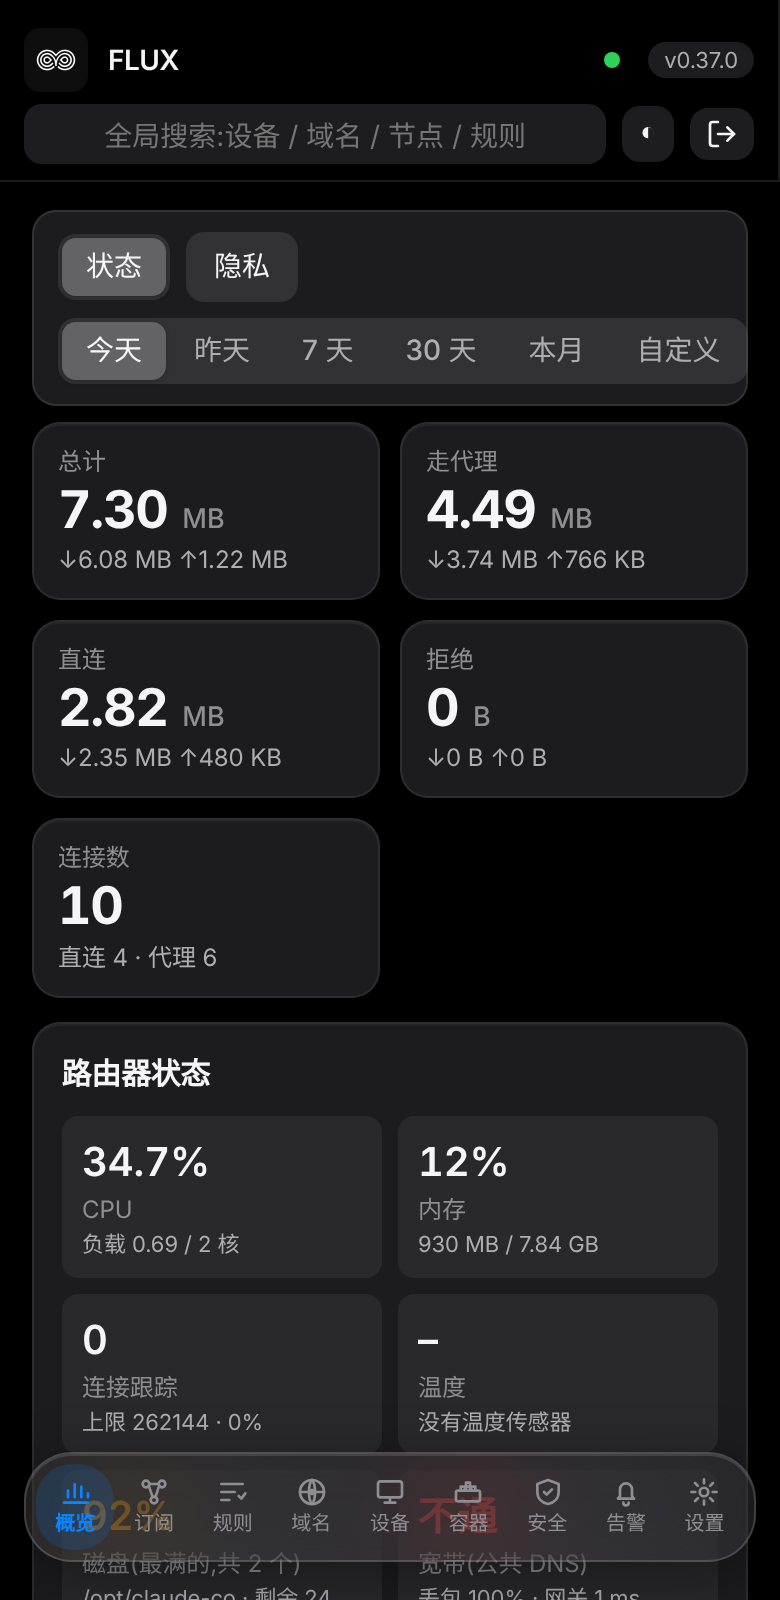
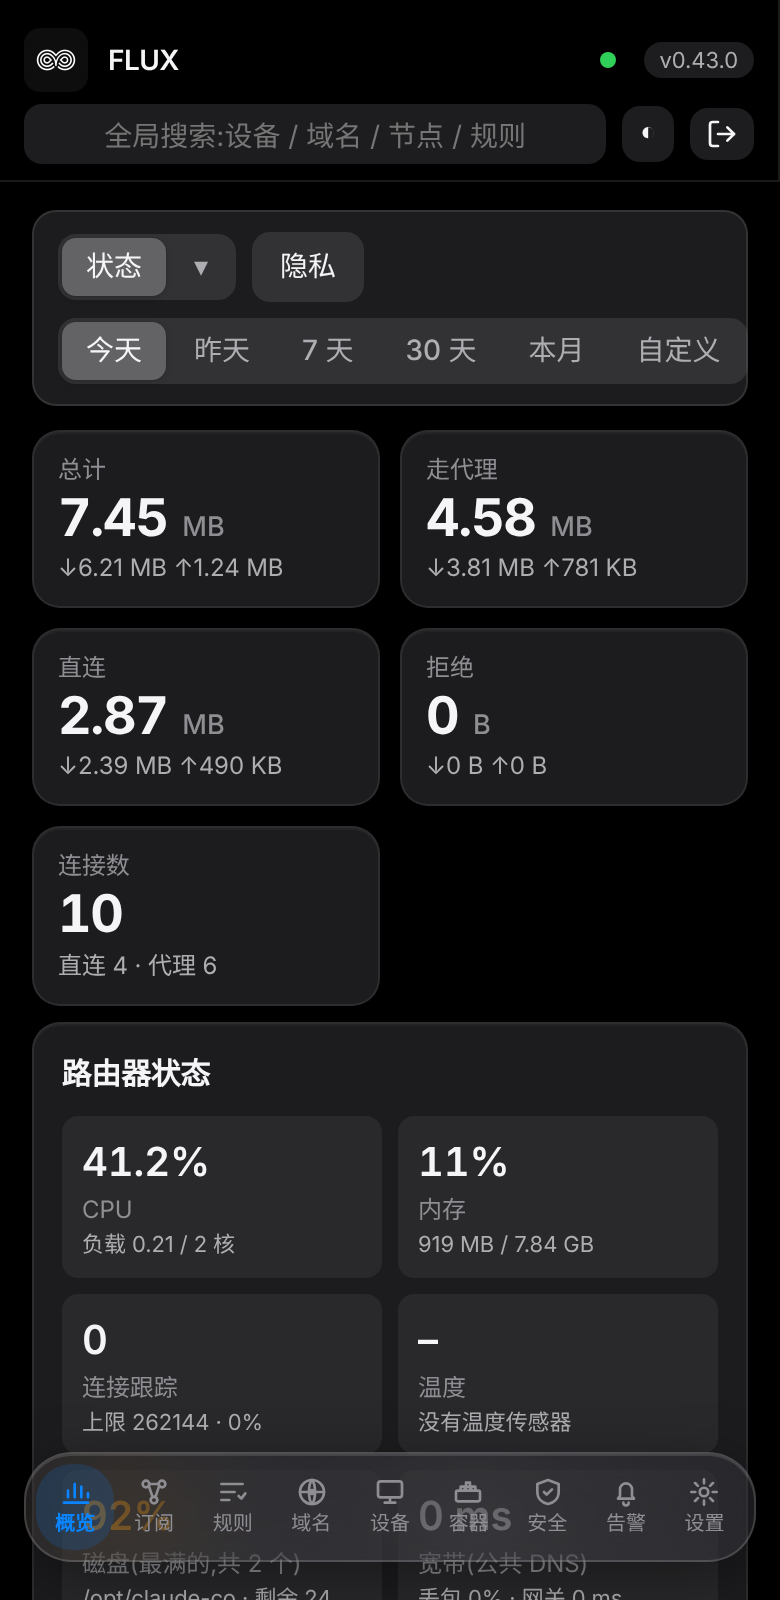
docs: update feature docs and screenshots (new-device card, heatmap, status popover, SD-card tips)
Claude-Session: https://claude.ai/code/session_01GtGpDSTma1sKiSfQkHSTpF

diff --git a/tests/docshots.py b/tests/docshots.py
@@ -1,5 +1,5 @@
 """生成 README 用的演示截图(模拟的 nikki / AdGuard / Docker,不含任何真实数据):python3 tests/docshots.py"""
-import json, os, subprocess, sys, tempfile, time, urllib.request
+import json, math, os, random, sqlite3, subprocess, sys, tempfile, time, urllib.request
 HERE = os.path.dirname(os.path.abspath(__file__)); ROOT = os.path.dirname(HERE)
 sys.path.insert(0, HERE)
 import mock_mihomo, mock_docker
@@ -9,7 +9,9 @@ data = tempfile.mkdtemp(); neigh = data + "/n"
 open(neigh, "w").write("192.168.1.10 dev br lladdr aa:bb:cc:dd:ee:01 REACHABLE\nfd00::10 dev br lladdr aa:bb:cc:dd:ee:01 STALE\n192.168.1.20 dev br lladdr aa:bb:cc:dd:ee:02 REACHABLE\n")
 env = dict(os.environ, DATA_DIR=data, NIKKI_API="http://127.0.0.1:19297", NIKKI_SECRET="s3cret", INTERVAL_SEC="2", FLUSH_SEC="2",
            LISTEN_HOST="127.0.0.1", LISTEN_PORT="18222", NEIGH_FILE=neigh, APP_VERSION=open(os.path.join(ROOT, "VERSION")).read().strip())
-p = subprocess.Popen([sys.executable, "-m", "app"], cwd=ROOT, env=env, stdout=subprocess.DEVNULL, stderr=subprocess.STDOUT)
+# 演示里宽带探测改用本机回环,避免沙箱出不去公网时概览出现红色「不通」(只影响截图,不改程序默认)
+BOOT = "import runpy, app.wan as w; w.DEFAULT_TARGETS = ['127.0.0.1']; runpy.run_module('app', run_name='__main__')"
+p = subprocess.Popen([sys.executable, "-c", BOOT], cwd=ROOT, env=env, stdout=subprocess.DEVNULL, stderr=subprocess.STDOUT)
 B = "http://127.0.0.1:18222"
 OUT = os.path.join(ROOT, "docs", "img"); os.makedirs(OUT, exist_ok=True)
 
@@ -18,10 +20,42 @@ def post(path, body):
     urllib.request.urlopen(urllib.request.Request(B + path, json.dumps(body).encode(), {"Content-Type": "application/json"}))
 
 
+
+def seed_demo():
+    """预填演示用的历史数据:两周的小时流量(让热力图有规律可看)和几台"新设备"。全是编造的。"""
+    con = sqlite3.connect(os.path.join(data, "traffic.db"), timeout=30)
+    rnd = random.Random(7)
+    now = time.time()
+    macs = {"aa:bb:cc:dd:ee:01": 1.0, "aa:bb:cc:dd:ee:02": 2.2}
+    for d in range(14, -1, -1):
+        for h in range(24):
+            t = now - d * 86400
+            lt = time.localtime(t)
+            hour = time.strftime("%Y-%m-%d ", lt) + "%02d" % h
+            wk = lt.tm_wday >= 5
+            # 晚上 19-23 点最忙;周末白天也有流量;凌晨几乎没有
+            base = 0.04 + 0.9 * math.exp(-((h - 21) ** 2) / 8) + (0.45 * math.exp(-((h - 14) ** 2) / 18) if wk else 0.22 * math.exp(-((h - 9) ** 2) / 6))
+            for m, k in macs.items():
+                v = base * k * rnd.uniform(0.6, 1.4) * 6e7
+                if d == 5 and h == 22 and m.endswith("02"):
+                    v *= 14            # 一次大下载,用来演示「中位数」不被带偏
+                con.execute("INSERT OR REPLACE INTO hourly(hour,client,node,up,down) VALUES(?,?,?,?,?)", (hour, m, "香港 01", int(v * .12), int(v)))
+    # known_dev:一条很早的记录当"首次启动时已有的设备",之后才出现的才算新设备
+    con.execute("INSERT OR REPLACE INTO known_dev(client,first) VALUES(?,?)", ("aa:bb:cc:dd:ee:01", int(now - 40 * 86400)))
+    con.execute("INSERT OR REPLACE INTO known_dev(client,first) VALUES(?,?)", ("aa:bb:cc:dd:ee:02", int(now - 40 * 86400)))
+    for i, (mac, ip, ago) in enumerate([("aa:bb:cc:dd:ee:11", "192.168.1.31", 2 * 3600), ("aa:bb:cc:dd:ee:12", "192.168.1.32", 7 * 3600),
+                                        ("aa:bb:cc:dd:ee:13", "192.168.1.33", 30 * 3600), ("aa:bb:cc:dd:ee:14", "192.168.1.34", 5 * 86400)]):
+        con.execute("INSERT OR REPLACE INTO known_dev(client,first) VALUES(?,?)", (mac, int(now - ago)))
+        con.execute("INSERT OR REPLACE INTO ipmap(ip,mac,seen) VALUES(?,?,?)", (ip, mac, int(now)))
+    con.commit(); con.close()
+
+
 try:
     time.sleep(20)
+    seed_demo()
     post("/api/device", {"dev": "aa:bb:cc:dd:ee:01", "name": "小林的手机"})
     post("/api/device", {"dev": "aa:bb:cc:dd:ee:02", "name": "客厅电视"})
+    post("/api/device", {"dev": "aa:bb:cc:dd:ee:13", "name": "书房平板"})
     post("/api/agh/config", {"url": "127.0.0.1:19444", "user": "admin", "pass": "pw123"})
     post("/api/docker/cfg", {"on": True, "url": "http://127.0.0.1:19331"})
     post("/api/auth/set", {"new": "demo-pass-123"})
@@ -39,15 +73,24 @@ try:
             pg.evaluate("TH.viz.style='wave';TH.trend.style='smooth';themeChanged(true)"); pg.wait_for_timeout(2500)
             go = lambda t: (pg.evaluate(f"S.tab='{t}';showTab();refresh()"), pg.wait_for_timeout(3500))
             go("overview"); pg.screenshot(path=f"{OUT}/overview{'-dark' if scheme == 'dark' else ''}.png")
+            if scheme == "light":
+                pg.click("#glCfg"); pg.wait_for_timeout(600); pg.screenshot(path=f"{OUT}/status-popover.png", clip={"x": 0, "y": 0, "width": 1280, "height": 520})
+                pg.keyboard.press("Escape"); pg.evaluate("document.getElementById('glPop')&&document.getElementById('glPop').remove()")
             if scheme == "dark":
                 continue
             go("nodes"); pg.screenshot(path=f"{OUT}/nodes.png")
-            go("devices"); pg.screenshot(path=f"{OUT}/devices.png")
+            go("devices"); pg.wait_for_timeout(1500); pg.screenshot(path=f"{OUT}/devices.png")
+            nd = pg.query_selector("#newDevCard")
+            if nd and nd.is_visible():
+                nd.screenshot(path=f"{OUT}/devices-new.png")
+            else:
+                print("警告:新设备卡没有出现")
             go("rules"); pg.fill("#rtIn", "www.baidu.com"); pg.click("#rtGo"); pg.wait_for_timeout(3500); pg.screenshot(path=f"{OUT}/rules.png")
             go("domains"); pg.fill("#lkpIn", "www.bilibili.com"); pg.click("#lkpGo"); pg.wait_for_timeout(3500); pg.screenshot(path=f"{OUT}/lookup.png")
             go("security"); pg.wait_for_timeout(2500); pg.evaluate("secTab('ov',true)"); pg.wait_for_timeout(500); pg.screenshot(path=f"{OUT}/security.png")
             pg.evaluate("secTab('dns',true)"); pg.wait_for_timeout(800); pg.screenshot(path=f"{OUT}/security-dns.png")
             pg.evaluate("secTab('diag',true)"); pg.wait_for_timeout(800); pg.screenshot(path=f"{OUT}/analysis.png")
+            pg.evaluate("secTab('rv',true)"); pg.wait_for_timeout(2500); pg.screenshot(path=f"{OUT}/heatmap.png")
             pg.evaluate("secTab('ov',true)")
             go("alerts"); pg.screenshot(path=f"{OUT}/alerts.png")
             go("docker"); pg.screenshot(path=f"{OUT}/docker.png")

diff --git a/README.md b/README.md
@@ -7,6 +7,7 @@
 - 按 **设备 / 机场 / 节点 / 策略组 / 规则 / 访问目标** 统计流量,看实时速度和小时 / 天趋势
 - 查某个域名走哪条规则、哪个节点,还能**实时测试**(不只看历史)
 - 路由器状态、宽带质量、DNS 拦截(AdGuard Home)、告警与推送、UPS、Docker 容器、周对比 / 故障时间线 / Wi-Fi 事件
+- **新设备一眼找到**(设备页「新设备」卡片)、**活跃时段热力图**(周内 / 工作日 vs 周末 / 某一天)
 - 数据只存在你自己的路由器上(SQLite),不联网上报。面板对路由器和 nikki **只读**,只给建议,不替你改配置
 
 > 截图用的是演示数据(模拟的 nikki / AdGuard / Docker),不是真实流量。外观默认是 Apple 风格,支持浅色 / 深色 / 随系统。
@@ -37,6 +38,14 @@
 |---|---|
 | ![告警](docs/img/alerts.png) | ![容器](docs/img/docker.png) |
 
+| 设备 · 新设备卡片(首次出现时间,直接命名 / 查看) | 安全 · 回看(活跃时段热力图) |
+|---|---|
+| ![新设备](docs/img/devices-new.png) | ![热力图](docs/img/heatmap.png) |
+
+| 概览 · 「状态 ▾」选择要隐藏的卡片 | |
+|---|---|
+| ![状态弹层](docs/img/status-popover.png) | |
+
 | 设置 | 登录页 |
 |---|---|
 | ![设置](docs/img/settings.png) | ![登录](docs/img/login.png) |
@@ -49,15 +58,15 @@
 
 | 模块 | 内容 |
 |---|---|
-| 概览 | 总流量、走代理 / 直连占比、实时速度、路由器状态(CPU / 内存 / 磁盘 / 宽带质量)、趋势图(柱 / 线 / 面积 / 平滑曲线)、设备与应用 Top、网络质量;卡片可拖动排序 |
+| 概览 | 总流量、走代理 / 直连占比、实时速度、路由器状态(CPU / 内存 / 磁盘 / 宽带质量)、趋势图(柱 / 线 / 面积 / 平滑曲线)、设备与应用 Top(应用分布可翻页看全部)、网络质量;卡片可拖动排序,「状态 ▾」可选哪些卡片被一键隐藏;网卡速度可折叠 |
 | 订阅 | 机场套餐用量与到期、节点评分(延迟 / 超时 / 波动)、各机场 / 节点流量;订阅长时间没更新会告警并给出 nikki 里的失败原因 |
 | 规则 | 规则命中统计、从未命中的规则、兜底 Match 占比;**实时测试**一个域名走哪条规则 |
 | 域名 | 谁访问了什么、走直连还是代理;**域名查询**:规则链、DNS、AdGuard 过滤结果、历史记录、当前连接 |
-| 设备 | 每台设备的流量、访问的域名、用到的节点;可起名、分组、设白名单,新设备入网 / 离线提醒 |
+| 设备 | 每台设备的流量、访问的域名、用到的节点;可起名、分组、设白名单,新设备入网 / 离线提醒;顶部「新设备」卡片列出最近第一次出现的设备;可隐藏长期离线的设备 |
 | 容器 | Docker 容器列表、资源占用、日志;可选启动 / 停止 / 重启 |
-| 安全 | 四个页签:**概览**(指标、待处理事项、自检)/ **DNS 与过滤**(AdGuard Home、dnsmasq、分流检查)/ **排查**(故障时间线、Wi-Fi 事件、周对比)/ **回看**(活跃热力图、目的地国家、周报) |
+| 安全 | 四个页签:**概览**(指标、待处理事项、自检)/ **DNS 与过滤**(AdGuard Home、dnsmasq、分流检查)/ **排查**(故障时间线、Wi-Fi 事件、周对比)/ **回看**(活跃时段热力图:周内 / 工作日 vs 周末 / 单日,平均或中位数;目的地国家、周报) |
 | 告警 | 新设备、节点故障、流量突增、套餐、磁盘、宽带丢包、UPS、容器停止、路由器日志严重错误等,可推送到 Bark / Telegram / 企业微信 / 飞书 / ntfy / Webhook,支持「忽略」和静默时段 |
-| 设置 | 外观、连接、告警与推送、备份与恢复、诊断包、可选功能开关 |
+| 设置 | 外观、连接、告警与推送、备份与恢复、诊断包、数据保留天数、可选功能开关 |
 
 更完整的清单见 [docs/FEATURES.md](docs/FEATURES.md),版本历史见 [CHANGELOG.md](CHANGELOG.md)。
 
@@ -79,15 +88,28 @@ docker compose up -d
 
 镜像是 `ghcr.io/linyunle/flux`,支持 amd64 / arm64。数据保存在 `./data`。
 
+**小内存 / SD 卡设备(如 NanoPi R2S)**:目录放在容量大的数据分区上(不要放在只有一百多 MB 的系统分区),`.env` 里可以降低写入和占用:
+
+```sh
+INTERVAL_SEC=15      # 采样间隔
+FLUSH_SEC=300        # 5 分钟写一次库
+KEEP_DAYS=30         # 按天明细保留 30 天
+HOUR_KEEP_DAYS=7     # 按小时数据保留 7 天
+```
+
+不建议在这类设备上开「路由器系统日志」接收(写入最多)。容器默认限制 128 MB 内存,实际占用通常只有几十 MB。
+
 ## 使用
 
-- **顶部筛选**:「状态」是开关,点一下隐藏路由器状态 / 内存 / 实时速度等全局卡片(页面太长时收起),再点恢复;时间范围在它旁边;「全部 / 代理 / 直连 / 拒绝」去向筛选在各自的卡片上(流量趋势、设备与访问目标的时段榜、应用分布、域名清单、设备页),每张卡片单独选,互不影响;点任何一行都能继续钻取
+- **顶部筛选**:「状态」是开关,点一下隐藏路由器状态 / 内存 / 实时速度等全局卡片(页面太长时收起),再点恢复;旁边的 **▾** 可以选「状态」到底管哪些卡片(共 10 张,可恢复默认);时间范围在它旁边;「全部 / 代理 / 直连 / 拒绝」去向筛选在各自的卡片上(流量趋势、设备与访问目标的时段榜、应用分布、域名清单、设备页),每张卡片单独选,互不影响;点任何一行都能继续钻取
+- **找新设备**:设备页最上面的「新设备」卡片列出最近第一次出现的设备(今天 / 3 天 / 14 天 / 30 天),带首次出现时间和在线状态,可直接「查看」或「命名」;面板第一次启动时已有的设备不算新设备。设备列表上方还能选「隐藏离线超过 N 天」,把早就不用的设备收起来(有连接的不会被收起)
+- **看哪个钟点最忙**:安全 → 回看 的热力图有三种看法:「周内规律」(近 3 / 7 / 14 天…,可选平均或中位数,中位数不被一次大下载带偏;可按星期,也可合并成「工作日 / 周末」两行,样本更多)、「某一天」(逐小时的上 / 下行,悬停看当小时最忙的几台设备)。颜色按「常见流量」定,不会被个别极端值压成一片淡色
 - **整理布局**:点「⠿ 整理」拖动卡片和左侧小卡(电脑端,Esc 退出),位置随外观设置保存
 - **查一个域名**:「域名」页输入域名,看规则链、真实 DNS、AdGuard 过滤、历史访问
 - **实时测试规则**:「规则」页输入域名点「实时测试」,面板经 nikki 的 mixed 端口发一次 CONNECT(不传数据),从连接列表读出命中的规则和出口。需要 nikki 开了 mixed-port;如果 nikki 的代理端口设了账号密码,到 **设置 → GeoIP 数据库 → 下载代理** 填 `http://用户:密码@127.0.0.1:端口`(只存在你自己的 data 目录),实时测试会复用它
 - **时间范围**:安全页顶部可选 24 小时 / 3 天 / 7 天 / 30 天或自定义起止时间,分流检查、目的地、故障时间线、无线事件、AdGuard 被拦截列表都会跟着变;长列表自动分页,点一行看明细
 - **复制详情(少截图)**:安全页、域名查询、规则实时测试、应用分布、告警、节点等卡片右上角有「复制详情」,设备 / 节点 / 域名详情弹窗和各类明细弹窗里也有;分页表有「复制本表」(复制全部行,不止当前页)。直接把文字贴给别人或 AI 即可
-- **未识别应用**:概览「应用分布」里点开「未识别」→「导出未识别明细」,得到一段写好说明的文字(只有域名和流量),发给 AI 让它按 `域名关键字=应用名|类别` 回复,把回复存成 .txt,到 **设置 → 应用特征库 → 导入规则文件** 导入,检查后保存即可。应用行、设备行都能点开看域名明细
+- **未识别应用**:概览「应用分布」里点开「未识别」→「导出未识别明细」,得到一段写好说明的文字(只有域名和流量),发给 AI 让它按 `域名关键字=应用名|类别` 回复,把回复存成 .txt,到 **设置 → 应用特征库 → 导入规则文件** 导入;导入前会逐条标出「新增 / 覆盖 / 相同」,确认后才合并进编辑框,点保存生效。保存时同一个关键字自动去重(也可先点「去重整理」)。应用行、设备行都能点开看域名明细
 - **路由器日志归并**:设置 → 路由器系统日志 切到「按内容归并」,把数字 / MAC / IP 不同、句式相同的日志合成一类并统计次数,几百条内核错误一眼看出是哪几类
 - **关掉又想恢复提醒**:告警里点「不再提醒这类」/「忽略这块盘」后,告警页顶部会列出已关闭的提醒,点「恢复提醒」即可(也可在 设置 → 告警通知 里改)
 - **待处理事项**:安全页「概览」页签里的清单,点进去处理后,顶部有「返回安全」按钮;安全页会记住你上次停留的页签
@@ -180,7 +202,8 @@ FLUX 不会修改 nikki 配置,也没有往路由器系统里写任何东西,卸
 | `LISTEN_HOST` / `LISTEN_PORT` | `0.0.0.0` / `8099` | 面板监听地址;也可以在网页里改 |
 | `PANEL_PASSWORD` | 空 | 登录密码(也可在网页里设置) |
 | `INTERVAL_SEC` | `10` | 采样间隔 |
-| `KEEP_DAYS` / `HOUR_KEEP_DAYS` | `90` / `14` | 按天 / 按小时数据保留天数 |
+| `KEEP_DAYS` / `HOUR_KEEP_DAYS` | `90` / `14` | 按天 / 按小时数据保留天数;也可在 设置 → 健康与存储 → 保留天数 里改(会估算占用,优先于环境变量) |
+| `FLUSH_SEC` | 默认 | 写入数据库的间隔(秒);SD 卡设备调大(如 `300`)可减少写入 |
 | `WAN_IFACE` | 自动 | WAN 网卡名,用于和路由器实际总量对账 |
 | `METRICS_TOKEN` | 空 | 给 Prometheus 抓 `/metrics` 的口令 |
 | `PAGE_TOKEN` | 空 | 非空则网页和接口都要带 `?t=<token>` |

diff --git a/docs/FEATURES.md b/docs/FEATURES.md
@@ -1,6 +1,6 @@
 # 详细功能清单
 
-> 早期版本整理的功能说明(部分页面名称在后续版本里有调整,以界面为准;最新变化见 [CHANGELOG.md](../CHANGELOG.md))。
+> 功能说明汇总(按功能整理,部分页面名称在后续版本里有调整,以界面为准;逐版本的变化见 [CHANGELOG.md](../CHANGELOG.md))。
 
 - 设备:点开设备列表里的一台,看这台设备的详情(趋势、直连/代理占比、访问目标、用到的节点、策略组、规则);在概览筛选某台设备时自动隐藏与它无关的全局内容;顶部统计栏滚动时固定;同一台设备的 IPv4 / 多个 IPv6 按 MAC 合并;可改名,可粘贴 `uci show dhcp` 批量导入名字;顶部可多选筛选设备
 - 实时:每 2 秒刷新,直连 / 代理速度分开统计,另有连接数;左侧栏常驻四张实时小卡(总速度、直连、代理、连接数);概览里「实时速度 / 直连速度 / 代理速度 / 最活跃设备 / 最活跃节点」都是独立卡片
@@ -20,6 +20,15 @@
 - 告警与推送:内置 6 类规则(新设备入网、流量突增、节点故障/恢复、TCP 重传率偏高、连接数异常、nikki 失联),触发后记录在「告警」页签和概览「最近告警」卡片,并可推送到 Bark / Telegram / 企业微信 / 飞书 / ntfy / 通用 Webhook;支持静默时段、同一对象的冷却间隔;流量突增按「设备 × 钟点」的历史均值做基线(样本不够时用近 24 小时中位数)。推送密钥只存在 data 目录的数据库里,页面不回显。环境变量 ALERT_EVAL_SEC(检查间隔,默认 30)、ALERT_LEARN_SEC(新设备学习期,默认 900)
 - 安全页(v0.11):接入 AdGuard Home(只读,账号密码在「设置 → DNS」里填,只存 data 目录)看 DNS 查询 / 拦截统计和最近被拦截的查询;分流检查(国内站点走了代理 / 境外站点直连 / 走代理却本地解析,启发式);目的地国家 / ASN(需要 GeoIP 库,可在「设置 → 目的地数据库」一键下载(GitHub 上的 GeoLite2 镜像,失败再试 DB-IP Lite;路由器直连不通时可在同一页设置 HTTP 下载代理));活跃时段热力图;数据质量自检
 - 安全页(v0.37)分成 概览 / DNS 与过滤 / 排查 / 回看 四个页签,时间范围在顶部对全部页签生效;「概览」里有指标卡和「需要关注」清单(采集、告警、节点、DNS、分流、兜底规则、套餐、面板保护),点一项直达对应页面
+- 新设备(v0.38 起):设备页最上面的「新设备」卡片,列出最近第一次出现的设备(今天 / 3 天 / 14 天 / 30 天),显示首次出现时间、在线状态,可直接「查看」或「命名」;面板第一次启动时已有的设备、IPv6 隐私临时地址都不算新设备;设备列表里这些设备旁带「新 · N 小时前」标记;手机上是卡片式排版,默认 5 台,可「显示全部」
+- 隐藏长期离线的设备(v0.39):设备列表上方「隐藏离线超过 不隐藏 / 3 / 7 / 14 / 30 天」,有连接的设备不会被隐藏,显示「已隐藏 N 台」,选择记在当前浏览器
+- 活跃时段热力图(安全 → 回看):「周内规律」看近 3 / 7 / 14 天……到小时数据保留天数,平均或中位数可切换,可按星期或合并成「工作日 / 周末」两行(按「天」算,样本更多);「某一天」逐小时的上 / 下行,悬停(手机长按)显示当小时最忙的几台设备;颜色按非零格子的 P90 定、再开平方压缩,个别极端值用描边标出并注明满格对应流量
+- 数据保留天数可在页面里改(设置 → 健康与存储):小时数据 2~90 天、按天明细 7~365 天,按现有数据量估算占用,缩短时二次确认;存在 `data/retention.json`,优先于 `KEEP_DAYS` / `HOUR_KEEP_DAYS`
+- 「状态 ▾」(v0.42):「状态」按钮一键隐藏 / 显示卡片,旁边的 ▾ 弹出概览 10 张卡片的开关,选哪些卡片归「状态」管,「恢复默认」回到原来的 5 张;设置同步给只读账号
+- 应用与协议(应用分布)可翻页,按「显示行数」分页,最多取前 300 项;路由器状态卡的网卡速度可折叠;概览顶部统计卡片滚动时不再固定,只有筛选栏固定;图表左侧刻度按文字宽度留位置,不再被切掉
+- 应用特征库导入预览与去重(v0.41):导入前逐条标出「新增 / 覆盖 / 相同」,确认后才合并进编辑框;关键字里的 `*.` / `http://` / 路径规整后再比较;保存时同一关键字只留靠前的一条并提示去掉几条,另有「去重整理」按钮
+- 路由器日志归并(v0.36):按内容归并,把数字 / MAC / IP 不同、句式相同的日志合成一类并统计次数;设备、域名等清单可导出 CSV
+- 小内存 / SD 卡设备:可通过 `INTERVAL_SEC` / `FLUSH_SEC` / `KEEP_DAYS` / `HOUR_KEEP_DAYS` 降低写入和占用(见 README「安装」)
 - 规则健康(规则策略页):从未命中的规则、流量最多的规则、落到兜底 Match 的占比
 - 机场套餐:设置月流量和重置日,估算用量、预计用完日,到阈值触发告警;周报:汇总 7 天并可每周自动推送
 - Prometheus:`/metrics` 文本指标;环境变量 `METRICS_TOKEN` 可让 Prometheus 用口令抓取(`Authorization: Bearer` 或 `?t=`)
